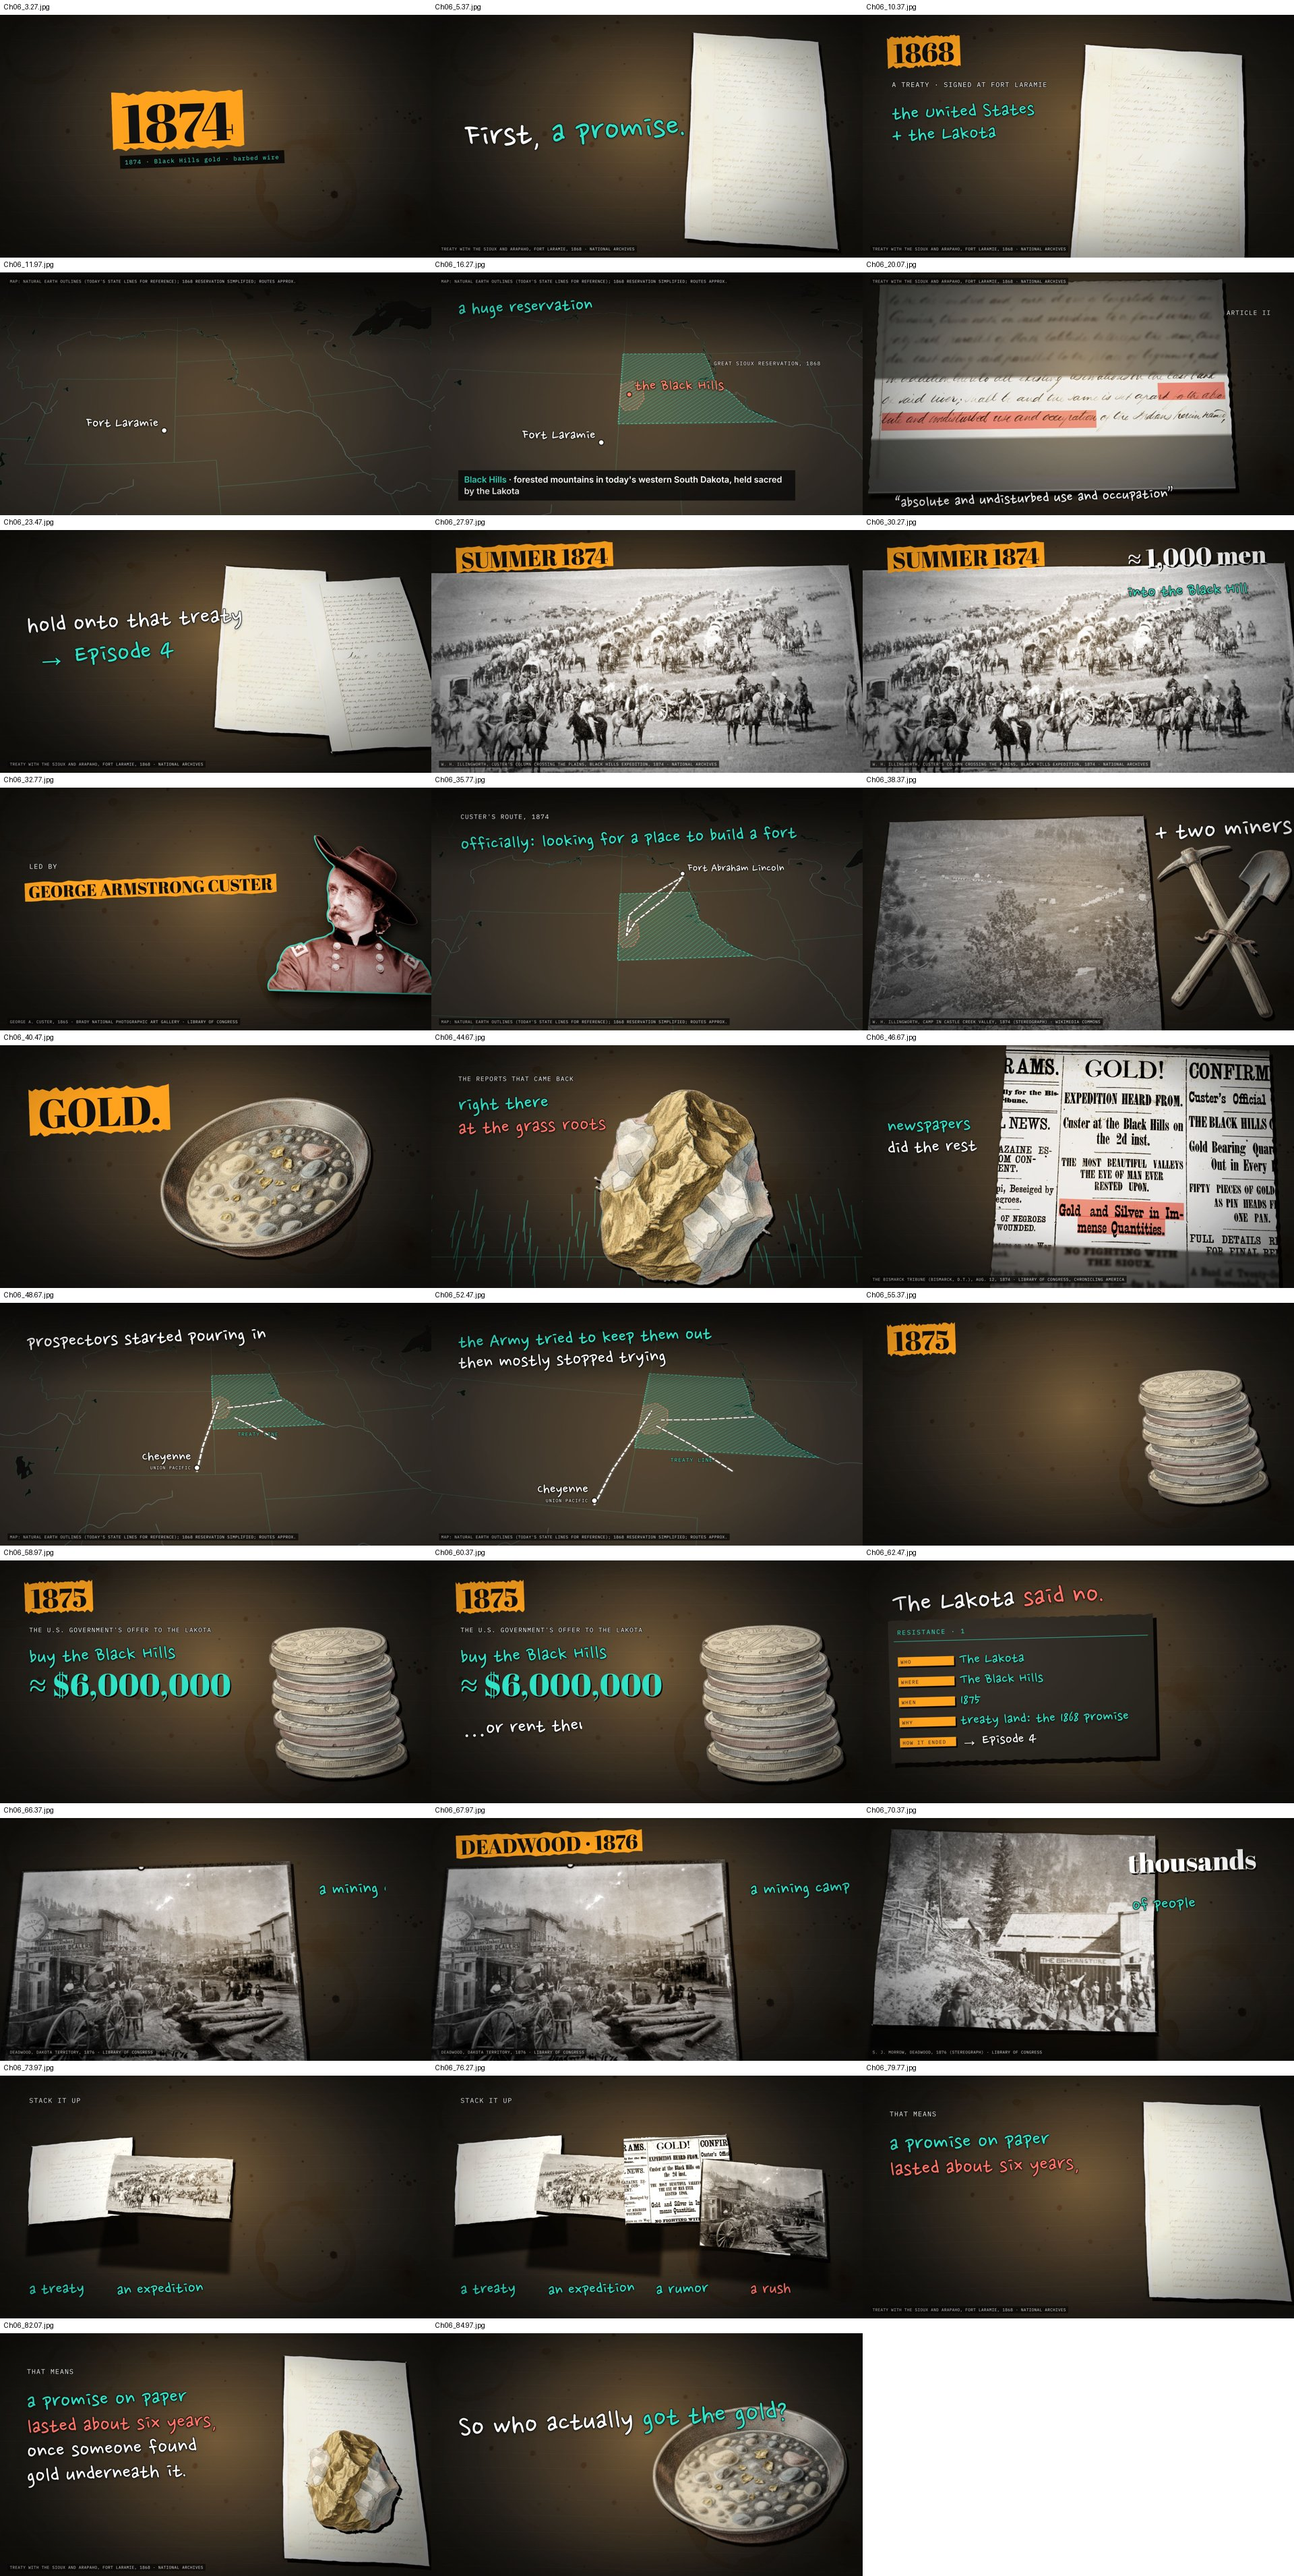
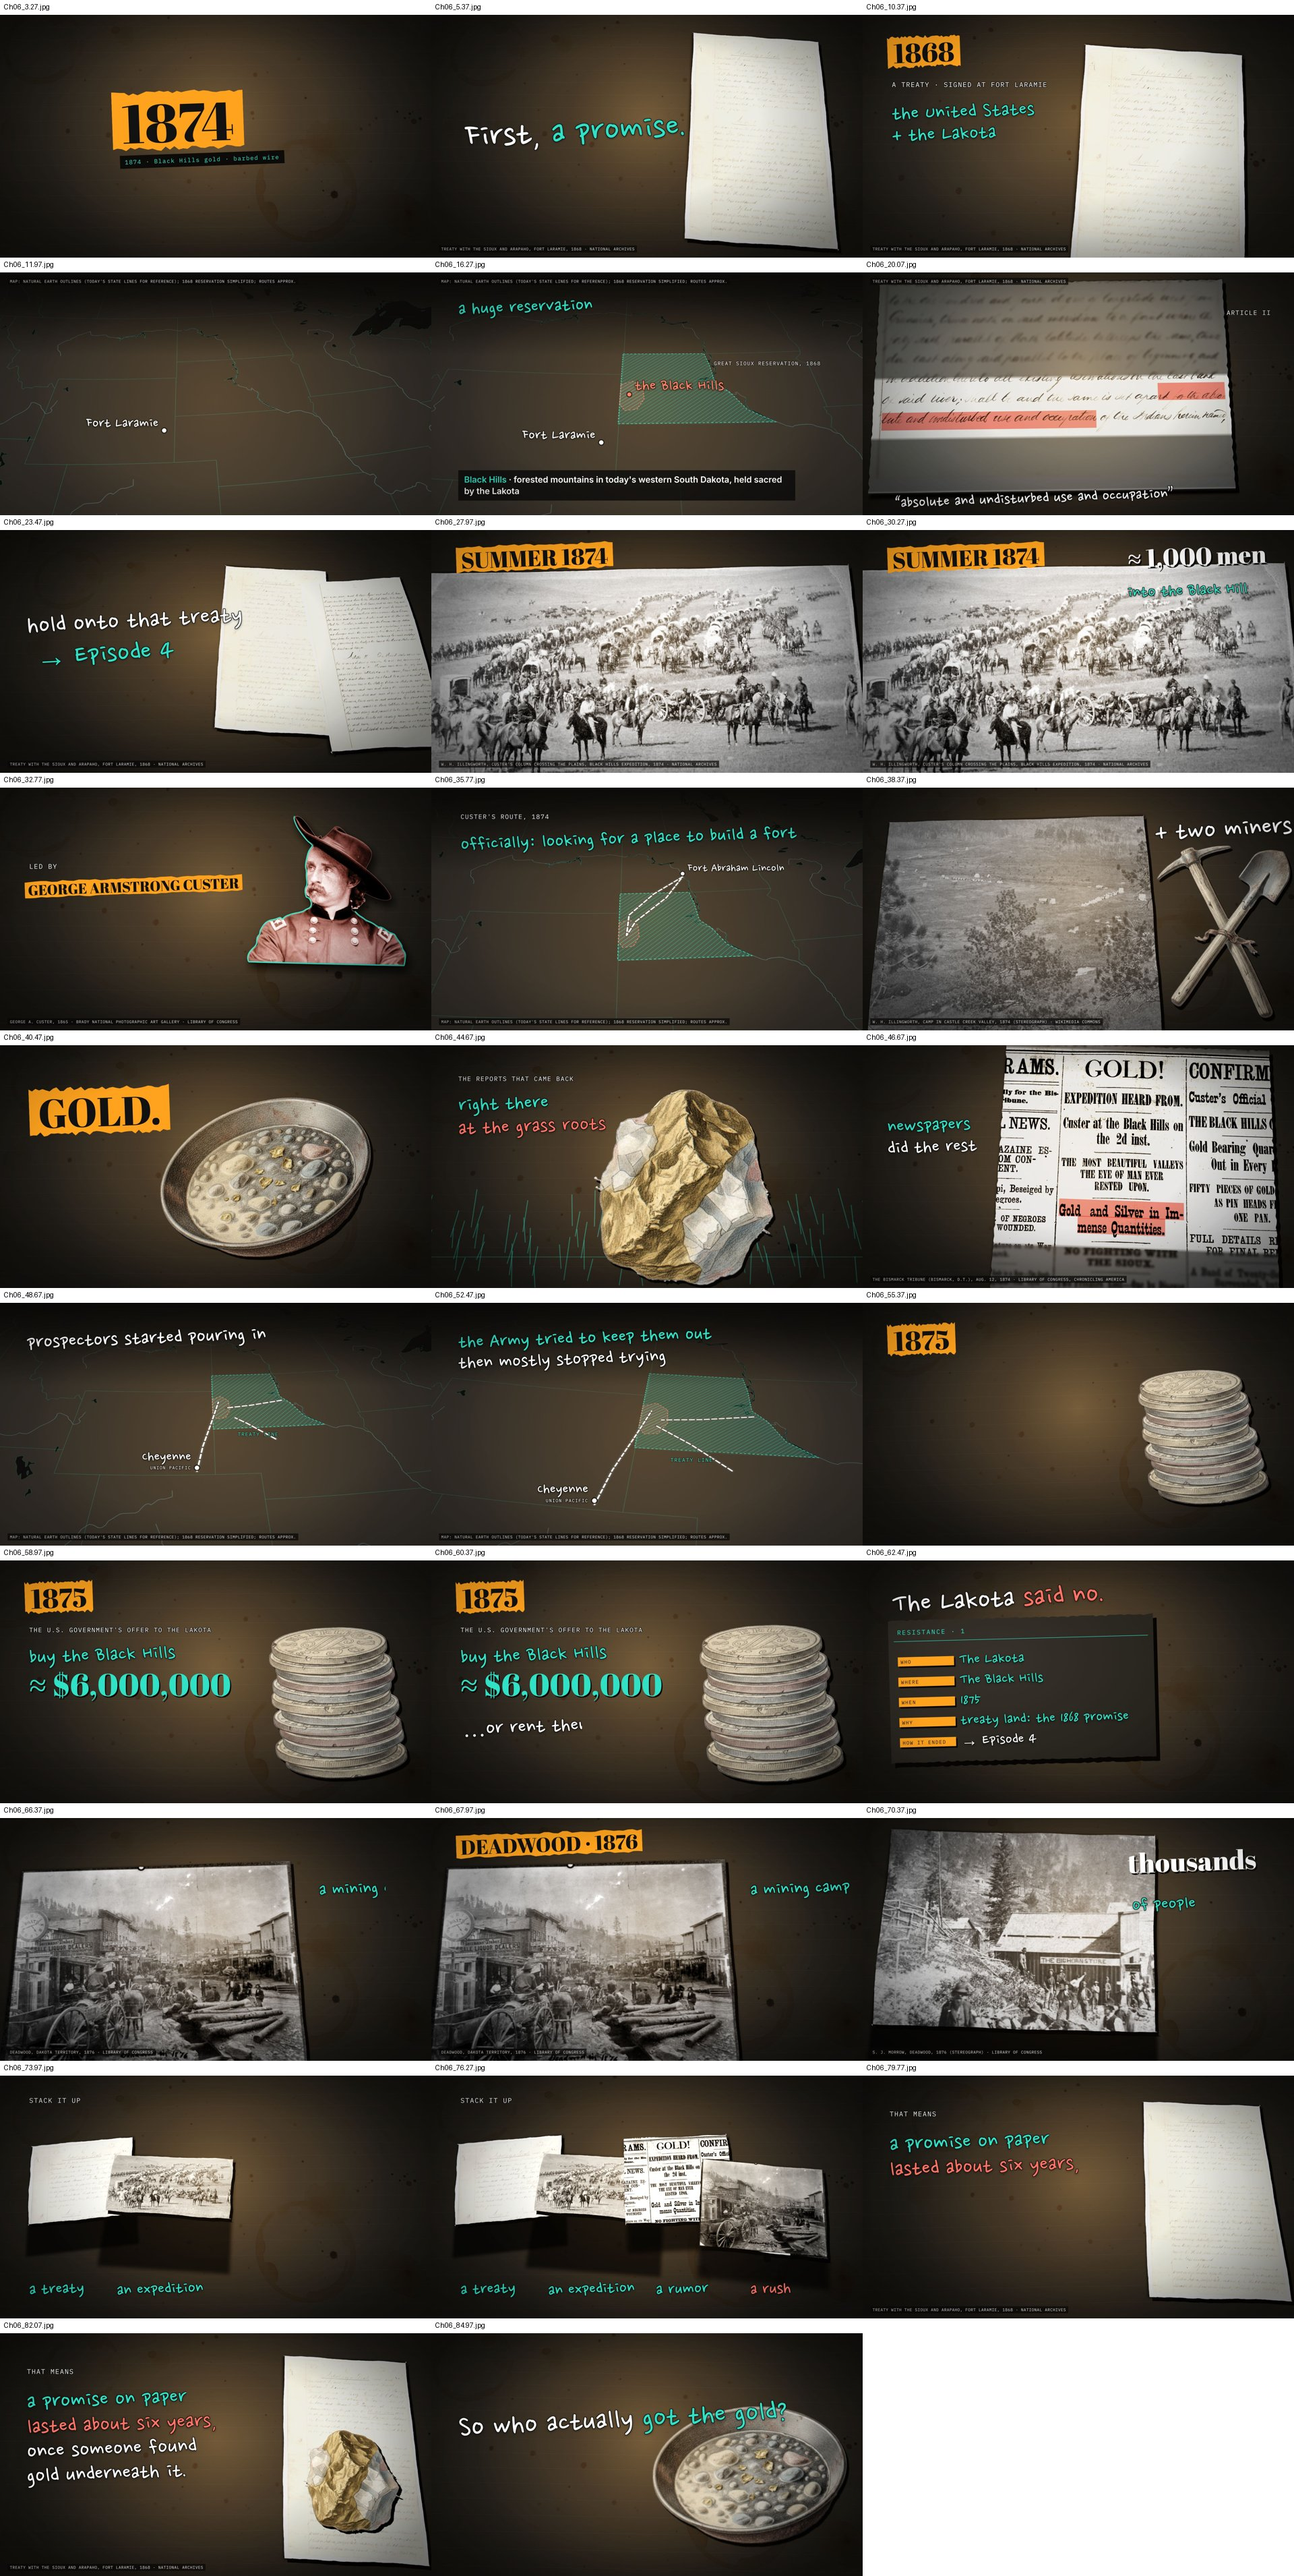
Ep 2: ch04-06 portraits as bust cut-outs (Goodnight, Loving, Carleton and Carson plain in the quiet section, Ikard, Reeves, Custer); all ten chapters follow the bust rule
Claude-Session: https://claude.ai/code/session_01JXLXPAtDHdTb8v1nek5PYh

Changed region(s): [[0.0312, 0.3115, 0.3438, 0.405]]

diff --git a/projects/American_West/ep2/review/build_ch04.md b/projects/American_West/ep2/review/build_ch04.md
@@ -11,21 +11,21 @@ there?" → "the Army needed beef.") runs on `PALETTES.quiet` (teal + bone, no c
 
 | # | Anchor | Shot |
 |---|---|---|
-| 1 | 0 | 1866 tape; Goodnight (torn print, coral see-through tint + trace) and Loving (circle mount, plain) on the desk |
+| 1 | 0 | 1866 tape; Goodnight (bust cut-out, coral see-through tint + trace) and Loving (bust cut-out, plain) on the desk |
 | 2 | gathered | three longhorn props slap down at depths; ≈ 2,000 counter; "Texas cattle → driven west" |
 | 3 | along | series map: Goodnight-Loving trail (coral, MHerd walking it) up the drawn Pecos to Fort Sumner; "Why there?" |
 | 4–5 | Because / eight | Fort Sumner captives under guard (Signal Corps, c. 1864) as a print: wide, then a cut-in with ≈ 8,000 · Diné (Navajo) · Mescalero Apache |
 | 6–7 | How did / for sheep | QUIET · drawn two-node diagram: Diné raiders ⇄ New Mexican settlers, "for generations · both ways"; sheep · horses · captives |
-| 8 | In 1863 | 1863 (bone tape); Gen. James H. Carleton in a circle mount (named on a label; the narration says "the Army's commander") |
+| 8 | In 1863 | 1863 (bone tape); Gen. James H. Carleton as a plain B&W bust (named on a label; the narration says "the Army's commander") |
 | 9–10 | He wanted / and turned | map: Diné homeland (four sacred mountains, simplified) hatched teal; "(he believed it held gold)"; dashed line → "a reservation beside Fort Sumner", "far from home" |
-| 11 | Troops | Kit Carson circle mount (plain); burned their fields / cut down their orchards / killed their sheep |
+| 11 | Troops | Kit Carson as a plain B&W bust; burned their fields / cut down their orchards / killed their sheep |
 | 12 | until | O'Sullivan's Canyon de Chelly (1873) as a print; "that winter, starving families surrendered" |
 | 13–15 | Then soldiers / call it / Hundreds died | map: the Long Walk drawn slowly in teal, ≈ 300 miles, "marched, 1864"; THE LONG WALK (bone) "what the Diné call it"; then held, labels fade, no marks |
 | 16–17 | The camp / The water | Navajo captives at Fort Sumner (Signal Corps) print; BOSQUE REDONDO + Definition ("round grove"; the reservation camp, 1863–68); water bad, crops failed |
 | 18 | People were | the guard photograph again, slow pull; "people went hungry → the Army needed beef" (last quiet beat) |
 | 19 | So let's | (quiet ends) map pulled back, trail to "Bosque Redondo"; plain handwriting, teal/white only: "One of the most famous cattle trails in America / began as a way to feed a prison camp." |
 | 20 | Goodnight and Loving | coin stack slaps; ≈ $12,000 "in gold" |
-| 21 | Goodnight is | Goodnight print small (coral); p4_chuck_wagon cut-out lands; THE CHUCK WAGON |
+| 21 | Goodnight is | Goodnight bust small (coral); p4_chuck_wagon cut-out lands; THE CHUCK WAGON |
 | 22 | an old Army | **3D cut-away** (drawn teal on a `Stage`, slow orbit): Army wagon box on wheels with bows, the chuck box on the back (shelves + a grid of drawers); "an old Army wagon / + a box on the back", "shelves & drawers"; Definition |
 | 23 | so a cook | Erwin E. Smith, J.A. chuck-wagon (Goodnight's J.A. Ranch), 1907, as a print |
 | 24 | The lid | 3D again, closer orbit: the hinged lid swings down on "folded" into a table (coral), legs drop; "the lid → a table" |
@@ -39,10 +39,16 @@ there?" → "the Army needed beef.") runs on `PALETTES.quiet` (teal + bone, no c
 - 3D chuck wagon: in the wide orbit the chuck box's back face is seen at a steep angle, so the drawers read better than the upper
   shelves; the close orbit shows the full grid. Parts are simplified ("Drawn diagram · parts simplified" tag).
 - Goodnight portrait: it is a 1905 halftone (enlarged, a little soft at the print size used).
-- Carleton's scan (Commons) carries a Palace of the Governors credit line at the bottom; it is cropped out (`b_carleton_crop.jpg`) and the tag credits them.
+- Carleton's bust comes from a small scan (226 px wide), so it is soft at screen size. His scan (Commons) carries a Palace of the Governors credit line at the bottom; it is cropped out (`b_carleton_crop.jpg`) and the tag credits them.
 - Map trails: Chrome dropped trails drawn at translateZ(2px) in some camera set-ups (ch04 "a reservation" line, ch05 South/North);
   those use `MLine` (1px) from `ch456_extra.tsx` instead. Shared `MTrail`/`MRoute` may have the same issue in other chapters.
 - Images I sourced (prefix `b_`, credits in `public/img/credits_ch04_b.json`): Goodnight (Prose and Poetry, 1905), Loving, Fort Sumner
   guard photo (Hweeldi), Carleton, Kit Carson (Fredricks/NPG), Canyon de Chelly (O'Sullivan/LOC), J.A. chuck wagon crop. The image agent's
   `navajo_captives_fort_sumner_1860s.jpg` and the J.A. photo are used too; its `kit_carson_c1863.jpg`, `canyon_de_chelly_camp_beauty…`
   and `fort_sumner_counting_navajo_c1864.jpg` arrived later and are unused (the last is the same Signal Corps negative as `b_hweeldi`).
+
+**Portraits (Oct 27 rule):** every portrait is now a bust cut out of its page (`Bust` in `src/kit/ch456_extra.tsx`: head and shoulders,
+no print, no mount, soft contact shadow). Goodnight (`c4_goodnight`) keeps the coral tint + teal trace; Loving (`c4_loving`) is plain B&W;
+Carleton (`c4_carleton`) and Kit Carson (`c4_carson`) are plain B&W in the quiet section. Bust crops are the job boxes in
+`tools/mask_jobs/ch04.py`; holes that touched the straight bottom edge (Carson's shirt front) were filled row by row in the alpha. The Fort
+Sumner group photographs stay plain prints.

diff --git a/projects/American_West/ep2/review/build_ch05.md b/projects/American_West/ep2/review/build_ch05.md
@@ -13,13 +13,13 @@ File `src/ch/Ch05.tsx`; masks `src/masks_ch05.ts` (job `tools/mask_jobs/ch05.py`
 | 5 | And a lot | Black cowboys, Texas, c. 1913 (photo, plain); "and a lot of them / weren't white." |
 | 6 | Historians | four drawn riders, the fourth turns coral: ≈ 1 in 4 "was Black" (historians' estimate) |
 | 7 | Many | before the war: enslaved on Texas ranches → after: the same work, for wages (branding iron, lariat props) |
-| 8 | Remember | Goodnight's portrait (plain) → **Bose Ikard** lands beside it (coral tint + trace); BOSE IKARD; born enslaved |
+| 8 | Remember | Goodnight's bust (plain B&W) → **Bose Ikard** bust lands beside it (coral tint + trace); BOSE IKARD; born enslaved |
 | 9 | On the trail | cut-in on Ikard: fought off Comanche raids, rode out stampedes |
 | 10–11 | Goodnight said / He was | Goodnight's words as quote lines: "farther than any living man." / "my detective, banker, and everything else." (last line coral) |
 | 12–14 | On the trail (2) / In town / Both | two-views card (dark, teal rule): ON THE TRAIL ate/slept/worked the same · IN TOWN the same color line he had left; "Both things were true." |
 | 15–17 | And here's / Not north / Somewhere | map: Texas hatched; "Not north. South." the escape route (coral) to the Rio Grande / Mexico, "slavery was illegal in Mexico"; 3,000 – 10,000 made it |
 | 18 | One man | map: coral route north into Indian Territory (today's Oklahoma, hatched, labelled "roughly"), Fort Smith |
-| 19–20 | His name / In 1875 | **Bass Reeves** (c. 1907, coral tint + trace); 1875 tape: one of the first Black deputy U.S. marshals in the West |
+| 19–20 | His name / In 1875 | **Bass Reeves** bust (c. 1907, coral tint + trace); 1875 tape: one of the first Black deputy U.S. marshals in the West |
 | 21 | riding | map: Indian Territory with the Chisholm, Western and Shawnee trails crossing it |
 | 22 | And then | Remington, A Mexican Vaquero (1890), coral vaquero; VAQUEROS / Mexican cowboys |
 | 23 | working cattle | Vaqueros (1877) painting; "long before it was part of the U.S." |
@@ -37,3 +37,8 @@ File `src/ch/Ch05.tsx`; masks `src/masks_ch05.ts` (job `tools/mask_jobs/ch05.py`
 - "Ranch ← rancho" uses the sombrero prop (a ranch has no single object); the spurs are unused.
 - Images I sourced (`b_`, `public/img/credits_ch05_b.json`): the Buffalo Bill pennant poster (LOC, downsized from a 450 MB master) and its
   top-panel crop, the Ikard enlargement. Unused from the image agent: `grabill_the_cow_boy_1888.jpg`, `texas_map_rio_grande_…_1856.jpg`.
+
+**Portraits (Oct 27 rule):** Bose Ikard (`c5_ikard_bust`, the full-figure mask cut at the chest) and Bass Reeves (`c5_reeves_bust`, the
+photo-edge crop rounded into a bust; parameters in `tools/mask_jobs/ch05.py`) are bust cut-outs with coral tint + trace; Goodnight beside
+Ikard is a plain B&W bust (`c4_goodnight`). The Remington vaquero is a painting of a rider, the Cody figure is on a poster, and the Black
+cowboys are a group photo, so those stay prints.

diff --git a/projects/American_West/ep2/review/build_ch06.md b/projects/American_West/ep2/review/build_ch06.md
@@ -13,7 +13,7 @@ File `src/ch/Ch06.tsx`; masks `src/masks_ch06.ts` (job `tools/mask_jobs/ch06.py`
 | 5 | for their | **the treaty's own Article II lines**: focus pull and a coral swipe on "abso-/lute and undisturbed use and occupation" (line positions read off the scan) |
 | 6 | Hold onto | both treaty pages on the desk; "hold onto that treaty", "→ Episode 4" |
 | 7 | Six years | Illingworth's photograph of Custer's column (1874, NARA); SUMMER 1874; ≈ 1,000 men; into the Black Hills |
-| 8 | led by | Custer (Brady studio, 1865) print, coral tint + trace; GEORGE ARMSTRONG CUSTER |
+| 8 | led by | Custer (Brady studio, 1865) bust cut-out, coral tint + trace; GEORGE ARMSTRONG CUSTER |
 | 9 | Officially | map: Custer's 1874 route from Fort Abraham Lincoln into the Hills; "officially: looking for a place to build a fort" |
 | 10 | They also | Illingworth, Camp in Castle Creek Valley (stereo half); pick & shovel prop; "+ two miners" |
 | 11 | The miners | gold pan prop slaps; GOLD. |
@@ -37,3 +37,7 @@ the same file from 42.65 s).
 - The prospector arrows from the east are illustrative, not traced routes (the map tag says "routes approx.").
 - Custer's photo is 1865 (Civil War); the tag gives its date.
 - Unused from the image agent: Hidden Wood Creek camp panorama, Rockerville panning photo (1889, too late), the full Bismarck Tribune page.
+
+**Portraits (Oct 27 rule):** Custer is a bust cut-out (`c6_custer_bust`: the mask cut below the shoulder straps, no plate edges) with the coral
+tint + trace and a soft contact shadow; the title was shrunk to clear it. Everything else in ch06 is documents, group photos or scenes, so it
+stays as prints.
